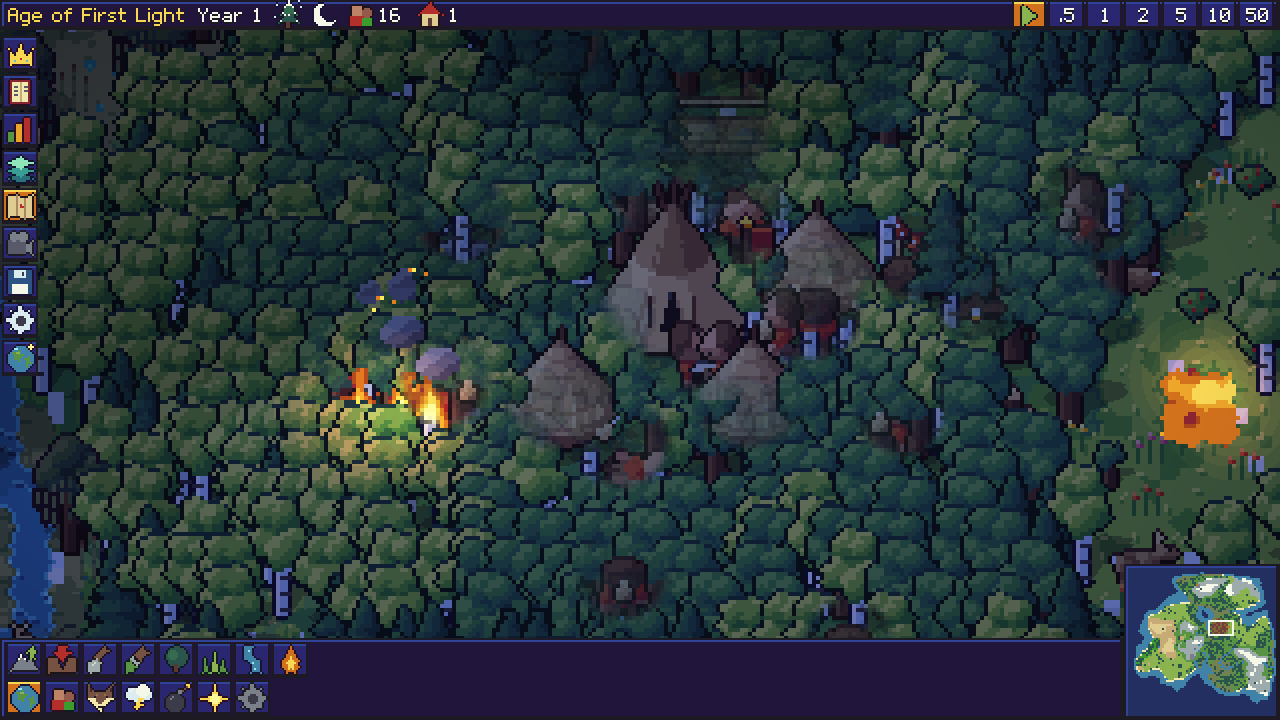
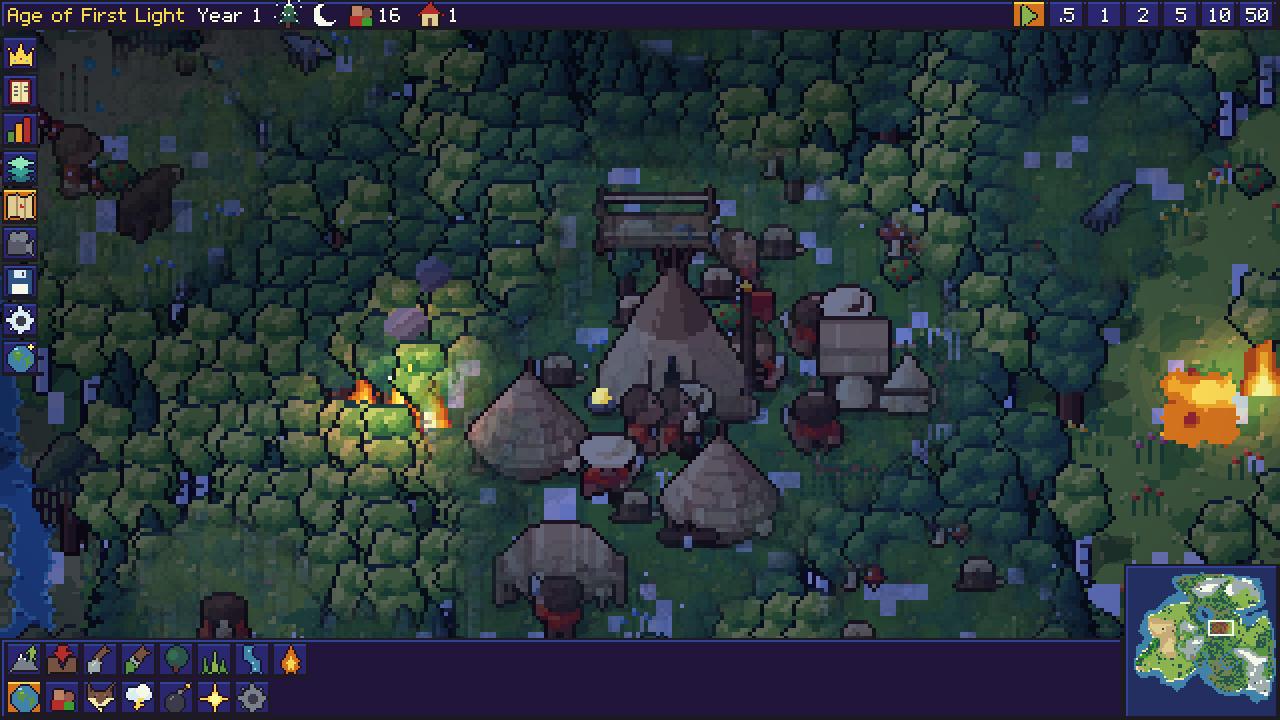
Chantier C.10: wide round clearing around hidden things, tree shadows fade with the trees
Claude-Session: https://claude.ai/code/session_01VFNMDWLubHBThyEZQxSVwU

diff --git a/game/dustcrown.js b/game/dustcrown.js
@@ -2389,14 +2389,13 @@ in vec2 vUV; flat in vec4 vP; flat in float vAlpha; flat in float vDepth; in vec
 uniform sampler2D uPage,uPal,uOcc; uniform int uShadow; uniform int uEm; uniform int uGlass; uniform float uVeil; uniform vec2 uCam,uRes; uniform float uZoom;
 void main(){
   int idx=int(texelFetch(uPage,ivec2(vUV),0).r*255.+.5); if(idx==255) discard;
-  if(uShadow==1){ o=vec4(.075,.065,.12,.34); oE=vec4(0.); return; }
   int flags=int(vP.y+.5); float em=0.;
-  // trees in front of a being or a building (chantier C.10): where the mask holds something that stands BEHIND this tree, the tree turns
-  // almost transparent in a soft-edged round window. The mask is read once per WORLD pixel (at its centre), so every screen pixel of one
-  // drawn pixel gets the same opacity and nothing crawls when the camera moves; the window opens over a few pixels of depth behind the tree.
+  // trees around a being or a building (chantier C.10): inside the soft-edged round window of the mask, every grown tree turns almost
+  // transparent, and so does its shadow, so the view around the thing is clear. The mask is read once per WORLD pixel (at its centre):
+  // every screen pixel of one drawn pixel gets the same opacity and nothing crawls when the camera moves.
   float op=1.;
-  if(uVeil>0. && (flags/128)%2==1){ vec2 sp=(floor(vW)+.5-uCam)*uZoom; ivec2 mp=clamp(ivec2(sp.x,uRes.y-sp.y),ivec2(0),ivec2(uRes)-1); vec4 m=texelFetch(uOcc,mp,0);
-    if(m.a>0.){ float dy=(vDepth-m.r)*2.*uRes.y/uZoom; float cv=m.a*uVeil*smoothstep(1.,4.,dy); op=1.-.9*cv; } }
+  if(uVeil>0. && (flags/128)%2==1){ vec2 sp=(floor(vW)+.5-uCam)*uZoom; ivec2 mp=clamp(ivec2(sp.x,uRes.y-sp.y),ivec2(0),ivec2(uRes)-1); op=1.-.9*texelFetch(uOcc,mp,0).a*uVeil; }
+  if(uShadow==1){ o=vec4(.075,.065,.12,.34*op); oE=vec4(0.); return; }
   if(idx>=150){ if((flags/64)%2==1){ idx=uGlass*6+(idx-150)-2; } else { idx=uEm*6+(idx-150); em=1.; } }
   else if(idx>=144){ idx=uEm*6+(idx-144); em=1.; } else if(idx>=128){ idx=int(vP.x+.5)*6+(idx-128); }
   int tone=int(vP.z+.5)-8; if(tone!=0){ int r=idx/6, t=idx-r*6; idx=r*6+clamp(t+tone,0,5); }
@@ -2937,7 +2936,7 @@ void main(){ vec2 q=uv+uShake/uRes; vec4 s=vec4(texture(uScene,q).rgb,texture(uE
         if (!f || f.key !== key) { const tp = B.town[b] >= 0 ? B.tp[B.town[b]] : 0, set = T.people || ((AL.KINDS[tp] && AL.Assets.frames['bld/' + AL.KINDS[tp].buildSet + '/' + T.name + '/0/0']) ? AL.KINDS[tp].buildSet : 'human'); // a people's own building keeps its people's look whoever holds the town
           f = v < 0 ? A.frames['bld/site/' + w + 'x' + h + '/0'] : A.frames['bld/' + set + '/' + T.name + '/' + B.stage[b] + '/' + v]; if (!f) f = A.frames['bld/human/house/0/0']; f = fr[b] = { f, key, ex: f[6] || null }; }
         const town = B.town[b], team = town >= 0 ? S.teamOf(B.tp[town], B.tk[town]) : 5, lit = night && st === 1 && (AL.hash2(b, 3, 1) < 0.8);
-        G.spr(f.f, wx, wy, team, lit ? 0 : 64, 0, 1, 1, -2); nb++; if (!far) G.occ(wx + f.f[2] / 2 - f.f[4], wy - f.f[5] + f.f[3] * 0.55, Math.max(f.f[2], f.f[3]) * 0.5, 0.9, wy - 2);
+        G.spr(f.f, wx, wy, team, lit ? 0 : 64, 0, 1, 1, -2); nb++; if (!far) G.occ(wx + f.f[2] / 2 - f.f[4], wy - f.f[5] + f.f[3] * 0.55, Math.max(f.f[2], f.f[3]) * 0.95, 0.9, wy - 2);
         if (lit && f.ex && f.ex.light && T.light) G.light(wx + f.ex.light[0], wy + f.ex.light[1] + 4, 26, 0.55 * S.night, 0);
         if (st === 1 && f.ex && f.ex.light && (T.name === 'forge' || T.name === 'temple') && !lit) G.light(wx + f.ex.light[0], wy + f.ex.light[1] + 2, 12, 0.25, 1);
         if (st === 1 && f.ex && f.ex.smoke && AL.Fx && AL.Fx.smoke) AL.Fx.smoke(b, wx + f.ex.smoke[0], wy + f.ex.smoke[1], T.name === 'forge'); } }
@@ -2952,7 +2951,7 @@ void main(){ vec2 q=uv+uShake/uRes; vec4 s=vec4(texture(uScene,q).rgb,texture(uE
       if (pv && i < pv.n && pv.alive[i] && pv.gen[i] === m.gen[i]) { const ox = pv.x[i], oy = pv.y[i], dx = x - ox, dy = y - oy; if (dx * dx + dy * dy < 9) { x = ox + dx * al; y = oy + dy * al; } }
       px[i] = x; py[i] = y; const an = m.anim[i]; if (an !== lastAnim[i] || m.gen[i] !== lastGen[i]) { lastAnim[i] = an; lastGen[i] = m.gen[i]; animStart[i] = t; }
       if (an === 14) continue; // inside a building
-      const wx = x * 8, wy = y * 8 + 2; if (wx < vx0 || wx > vx1 || wy < vy0 || wy > vy1) continue; if (S.sel === i) S.selPos = [wx, wy]; const kind = m.kind[i]; if (!far && an !== 14) { const sz = AL.KINDS[kind].size || 24; G.occ(wx, wy - sz * 0.4, Math.max(13, sz * 0.56), 1, wy); } if (kind >= np && S.drawCreature(m, i, kind, an, wx, wy, t, far)) { if (!far && m.hd && m.hd[i] && an !== 7) { const bf = bellF || (bellF = AL.Assets.frames['mark/bell']); if (bf) G.spr(bf, wx, wy - AL.KINDS[kind].size * 0.42, 0, 0, 0, 1, 1, 14); } nu++; continue; }
+      const wx = x * 8, wy = y * 8 + 2; if (wx < vx0 || wx > vx1 || wy < vy0 || wy > vy1) continue; if (S.sel === i) S.selPos = [wx, wy]; const kind = m.kind[i]; if (!far && an !== 14) { const sz = AL.KINDS[kind].size || 24; G.occ(wx, wy - sz * 0.4, Math.max(30, sz * 1.15), 1, wy); } if (kind >= np && S.drawCreature(m, i, kind, an, wx, wy, t, far)) { if (!far && m.hd && m.hd[i] && an !== 7) { const bf = bellF || (bellF = AL.Assets.frames['mark/bell']); if (bf) G.spr(bf, wx, wy - AL.KINDS[kind].size * 0.42, 0, 0, 0, 1, 1, 14); } nu++; continue; }
       const team = S.teamOf(kind, m.kd[i]), fl = m.flags[i];
       if (far) { if (mk) G.spr(mk, wx, wy, team, 0, 0, 1, 0.8 / z, 0); nu++; continue; }
       const fs = framesOf(kind, m.look[i], an, m.dir[i]); let fi; const el = t - animStart[i];

diff --git a/src/client/scene.js b/src/client/scene.js
@@ -97,7 +97,7 @@
         if (!f || f.key !== key) { const tp = B.town[b] >= 0 ? B.tp[B.town[b]] : 0, set = T.people || ((AL.KINDS[tp] && AL.Assets.frames['bld/' + AL.KINDS[tp].buildSet + '/' + T.name + '/0/0']) ? AL.KINDS[tp].buildSet : 'human'); // a people's own building keeps its people's look whoever holds the town
           f = v < 0 ? A.frames['bld/site/' + w + 'x' + h + '/0'] : A.frames['bld/' + set + '/' + T.name + '/' + B.stage[b] + '/' + v]; if (!f) f = A.frames['bld/human/house/0/0']; f = fr[b] = { f, key, ex: f[6] || null }; }
         const town = B.town[b], team = town >= 0 ? S.teamOf(B.tp[town], B.tk[town]) : 5, lit = night && st === 1 && (AL.hash2(b, 3, 1) < 0.8);
-        G.spr(f.f, wx, wy, team, lit ? 0 : 64, 0, 1, 1, -2); nb++; if (!far) G.occ(wx + f.f[2] / 2 - f.f[4], wy - f.f[5] + f.f[3] * 0.55, Math.max(f.f[2], f.f[3]) * 0.5, 0.9, wy - 2);
+        G.spr(f.f, wx, wy, team, lit ? 0 : 64, 0, 1, 1, -2); nb++; if (!far) G.occ(wx + f.f[2] / 2 - f.f[4], wy - f.f[5] + f.f[3] * 0.55, Math.max(f.f[2], f.f[3]) * 0.95, 0.9, wy - 2);
         if (lit && f.ex && f.ex.light && T.light) G.light(wx + f.ex.light[0], wy + f.ex.light[1] + 4, 26, 0.55 * S.night, 0);
         if (st === 1 && f.ex && f.ex.light && (T.name === 'forge' || T.name === 'temple') && !lit) G.light(wx + f.ex.light[0], wy + f.ex.light[1] + 2, 12, 0.25, 1);
         if (st === 1 && f.ex && f.ex.smoke && AL.Fx && AL.Fx.smoke) AL.Fx.smoke(b, wx + f.ex.smoke[0], wy + f.ex.smoke[1], T.name === 'forge'); } }
@@ -112,7 +112,7 @@
       if (pv && i < pv.n && pv.alive[i] && pv.gen[i] === m.gen[i]) { const ox = pv.x[i], oy = pv.y[i], dx = x - ox, dy = y - oy; if (dx * dx + dy * dy < 9) { x = ox + dx * al; y = oy + dy * al; } }
       px[i] = x; py[i] = y; const an = m.anim[i]; if (an !== lastAnim[i] || m.gen[i] !== lastGen[i]) { lastAnim[i] = an; lastGen[i] = m.gen[i]; animStart[i] = t; }
       if (an === 14) continue; // inside a building
-      const wx = x * 8, wy = y * 8 + 2; if (wx < vx0 || wx > vx1 || wy < vy0 || wy > vy1) continue; if (S.sel === i) S.selPos = [wx, wy]; const kind = m.kind[i]; if (!far && an !== 14) { const sz = AL.KINDS[kind].size || 24; G.occ(wx, wy - sz * 0.4, Math.max(13, sz * 0.56), 1, wy); } if (kind >= np && S.drawCreature(m, i, kind, an, wx, wy, t, far)) { if (!far && m.hd && m.hd[i] && an !== 7) { const bf = bellF || (bellF = AL.Assets.frames['mark/bell']); if (bf) G.spr(bf, wx, wy - AL.KINDS[kind].size * 0.42, 0, 0, 0, 1, 1, 14); } nu++; continue; }
+      const wx = x * 8, wy = y * 8 + 2; if (wx < vx0 || wx > vx1 || wy < vy0 || wy > vy1) continue; if (S.sel === i) S.selPos = [wx, wy]; const kind = m.kind[i]; if (!far && an !== 14) { const sz = AL.KINDS[kind].size || 24; G.occ(wx, wy - sz * 0.4, Math.max(30, sz * 1.15), 1, wy); } if (kind >= np && S.drawCreature(m, i, kind, an, wx, wy, t, far)) { if (!far && m.hd && m.hd[i] && an !== 7) { const bf = bellF || (bellF = AL.Assets.frames['mark/bell']); if (bf) G.spr(bf, wx, wy - AL.KINDS[kind].size * 0.42, 0, 0, 0, 1, 1, 14); } nu++; continue; }
       const team = S.teamOf(kind, m.kd[i]), fl = m.flags[i];
       if (far) { if (mk) G.spr(mk, wx, wy, team, 0, 0, 1, 0.8 / z, 0); nu++; continue; }
       const fs = framesOf(kind, m.look[i], an, m.dir[i]); let fi; const el = t - animStart[i];

diff --git a/src/client/gl.js b/src/client/gl.js
@@ -77,14 +77,13 @@ in vec2 vUV; flat in vec4 vP; flat in float vAlpha; flat in float vDepth; in vec
 uniform sampler2D uPage,uPal,uOcc; uniform int uShadow; uniform int uEm; uniform int uGlass; uniform float uVeil; uniform vec2 uCam,uRes; uniform float uZoom;
 void main(){
   int idx=int(texelFetch(uPage,ivec2(vUV),0).r*255.+.5); if(idx==255) discard;
-  if(uShadow==1){ o=vec4(.075,.065,.12,.34); oE=vec4(0.); return; }
   int flags=int(vP.y+.5); float em=0.;
-  // trees in front of a being or a building (chantier C.10): where the mask holds something that stands BEHIND this tree, the tree turns
-  // almost transparent in a soft-edged round window. The mask is read once per WORLD pixel (at its centre), so every screen pixel of one
-  // drawn pixel gets the same opacity and nothing crawls when the camera moves; the window opens over a few pixels of depth behind the tree.
+  // trees around a being or a building (chantier C.10): inside the soft-edged round window of the mask, every grown tree turns almost
+  // transparent, and so does its shadow, so the view around the thing is clear. The mask is read once per WORLD pixel (at its centre):
+  // every screen pixel of one drawn pixel gets the same opacity and nothing crawls when the camera moves.
   float op=1.;
-  if(uVeil>0. && (flags/128)%2==1){ vec2 sp=(floor(vW)+.5-uCam)*uZoom; ivec2 mp=clamp(ivec2(sp.x,uRes.y-sp.y),ivec2(0),ivec2(uRes)-1); vec4 m=texelFetch(uOcc,mp,0);
-    if(m.a>0.){ float dy=(vDepth-m.r)*2.*uRes.y/uZoom; float cv=m.a*uVeil*smoothstep(1.,4.,dy); op=1.-.9*cv; } }
+  if(uVeil>0. && (flags/128)%2==1){ vec2 sp=(floor(vW)+.5-uCam)*uZoom; ivec2 mp=clamp(ivec2(sp.x,uRes.y-sp.y),ivec2(0),ivec2(uRes)-1); op=1.-.9*texelFetch(uOcc,mp,0).a*uVeil; }
+  if(uShadow==1){ o=vec4(.075,.065,.12,.34*op); oE=vec4(0.); return; }
   if(idx>=150){ if((flags/64)%2==1){ idx=uGlass*6+(idx-150)-2; } else { idx=uEm*6+(idx-150); em=1.; } }
   else if(idx>=144){ idx=uEm*6+(idx-144); em=1.; } else if(idx>=128){ idx=int(vP.x+.5)*6+(idx-128); }
   int tone=int(vP.z+.5)-8; if(tone!=0){ int r=idx/6, t=idx-r*6; idx=r*6+clamp(t+tone,0,5); }

diff --git a/RESUME.md b/RESUME.md
@@ -8,7 +8,7 @@
 
 ## PASSATION (à lire en premier) — C.10 refait en vrai fondu, reste la passe de Sonnet
 
-**C.10 est refait et recoché.** Julien a choisi : dès qu'il y a quelque chose à montrer derrière des arbres, un rond autour de lui où les arbres deviennent transparents, proprement (piste 1 de `C10-PISTES.md`). La trame 2×2 est supprimée. Il ne reste que la ligne 0.2 et la passe de tests et d'équilibrage, réservées à Sonnet. Si Julien veut retoucher l'effet : taille des ronds et force dans `src/client/scene.js` (appels `G.occ`), bord du rond dans `FS_M` et opacité minimale (`op=1.-.9*cv`) dans `FS_S` (`src/client/gl.js`).
+**C.10 est refait et recoché.** Julien a choisi : dès qu'il y a quelque chose à montrer derrière des arbres, un rond autour de lui où les arbres deviennent transparents, proprement (piste 1 de `C10-PISTES.md`). La trame 2×2 est supprimée. Il ne reste que la ligne 0.2 et la passe de tests et d'équilibrage, réservées à Sonnet. Si Julien veut retoucher l'effet : le rond a été élargi en clairière (voir le journal C.10) ; taille des ronds et force dans `src/client/scene.js` (appels `G.occ`), bord du rond dans `FS_M` et opacité minimale (`op=1.-.9*cv`) dans `FS_S` (`src/client/gl.js`).
 
 ## Current state: steps 1–13 done. Now working through `CHANTIER.md` — part A and all of B (B.1 to B.9) done; all of C done (C.0, C.1, C.3 to C.10); what remains is the test and balance pass reserved for Sonnet (line 0.2 and the lists « À tester par Sonnet »).
 
@@ -17,6 +17,7 @@
 **C.10 — arbres transparents devant ce qu'ils cachent (refait en vrai fondu, fait).** Rendu seulement ; aucun dessin d'arbre modifié. La première version par trame 2×2 (commit 8e955f9) est remplacée.
 - Principe (`src/client/gl.js`) : le masque des objets cachés est inchangé (`G.occ`, `progM` : un rond par être vivant et par bâtiment visible, avec sa profondeur). Ce qui change : la scène a maintenant DEUX images, la couleur (`texScene`) et la lumière émise (`texEm`, seconde cible de `fboScene`, `gl.drawBuffers`). L'alpha de la couleur est donc libre pour l'opacité, et la passe des sprites mélange vraiment (`SRC_ALPHA, ONE_MINUS_SRC_ALPHA` sur les deux cibles, sprites triés du fond vers l'avant). `FS_T` et `FS_S` écrivent `o` (couleur, opacité) et `oE` (émission, opacité) ; `FS_C` lit l'émission dans `uEmis`. Un arbre adulte (drapeau 128) placé DEVANT un objet du masque tombe à 10 % d'opacité au cœur du rond (21 % devant un bâtiment), bord fondu sur les 30 % extérieurs du rayon. Le masque est lu une fois par pixel du MONDE (en son centre) : tous les pixels d'écran d'un même pixel dessiné ont la même opacité, rien ne rampe quand la caméra bouge. Le rond s'ouvre progressivement quand l'objet passe de 1 à 4 px derrière le pied de l'arbre (pas de saut net au croisement). Rien sous le zoom 1, progressif de 1 à 1,5, plein au-delà ; ombres des arbres non touchées ; `AL.Gfx.veilOff = true` coupe l'effet.
 - Réglages (`src/client/scene.js`) : êtres vivants, rayon `max(13, taille × 0,56)`, force 1 ; bâtiments, rayon 0,5 × leur plus grand côté, force 0,9.
+- **Élargi ensuite à la demande de Julien (« un large cercle, la vue vraiment dégagée »)** : le rond est une vraie clairière. Rayon des êtres vivants `max(30, taille × 1,15)` px, bâtiments 0,95 × leur plus grand côté. Le test de profondeur est supprimé : TOUS les arbres adultes dont les pixels tombent dans le rond s'effacent (devant comme derrière), ce qui donne une zone ronde et non une forme découpée ; les ombres des arbres s'effacent avec eux dans le rond (sinon il restait des traînées grises au sol). Le paragraphe « Principe » ci-dessous décrit la première forme (arbres de devant seulement, ouverture progressive selon la profondeur) : ces deux points ne sont plus vrais. Captures `shots/c10b-z{1.5,2,3}-after.png` et `shots/c10b-night-z2-after.png` refaites et regardées : campement, colons, cerfs, ours et loups entièrement dégagés, bord du rond doux, feu et lave inchangés la nuit ; les captures « before » et celle du zoom 1 datent de la première forme (effet coupé ou absent : rien n'y change). Temps d'image remesuré : 78,1 / 79,3 / 77,1 ms effet coupé, 79,7 / 82,6 / 84,6 effet actif. Non vérifié en plus : une grande armée en forêt (beaucoup de ronds qui se rejoignent : la forêt disparaît sur une large zone, c'est voulu mais pas regardé) ; un être à découvert près d'un arbre isolé efface cet arbre aussi.
 - Vu (captures `tests/shot.js`, campement humain de 16 colons posé au cœur de la forêt la plus dense de la carte, cerfs, ours, loups, temps clair) : `shots/c10b-z{1,1.5,2,3}-{before,after}.png`. Zooms 1,5, 2 et 3 regardés : colons, ours, cerf, tentes et enclos cachés apparaissent nettement dans des ronds à bord doux, on reconnaît les personnages ; zoom 1 regardé : aucun effet, comme voulu. Nuit au zoom 2 avec un feu de forêt et une flaque de lave (`shots/c10b-night-z2-{before,after}.png`) : le feu et la lave brillent comme avant, les flammes se voient à travers les arbres effacés ; la même scène avec l'ancien rendu (avant ce commit) et le nouveau, effet coupé, regardées côte à côte : même éclairage, mêmes lueurs (les seules différences sont les animations : fumée, vent). Aucune erreur de console pendant les captures ; `node --check game/dustcrown.js` passe.
 - Coût mesuré (rendu logiciel, sans carte graphique, zoom 2 sur cette forêt, 120 images, trois fois chacun) : ancien rendu 72,1 / 70,5 / 73,8 ms sans la trame et 75,5 / 75,8 / 72,9 avec ; nouveau rendu 75,2 / 74,0 / 78,5 ms effet coupé et 78,4 / 83,0 / 81,3 effet actif (une autre série : 80,5 / 79,6 / 76,9 et 80,2 / 81,7 / 81,4). Soit quelques millisecondes de plus ici (seconde image + mélange), à la limite du bruit de la mesure.
 - Non vérifié : les fenêtres éclairées la nuit (le campement de test n'a que des tentes sans fenêtres ; le chemin du shader pour elles n'a pas changé de logique, mais ce n'est pas vu) ; les images successives en mouvement (pas de scintillement attendu par construction, non comparé image par image) ; l'apparition ou la mort d'un être derrière un arbre (le rond apparaît d'un coup, il n'y a pas de fondu dans le temps) ; les effets à dissolution ordonnée et les autres drapeaux (flash, poison, sous l'eau) n'ont pas été regardés un par un ; un téléphone ou une carte graphique qui gérerait mal deux cibles de rendu.
